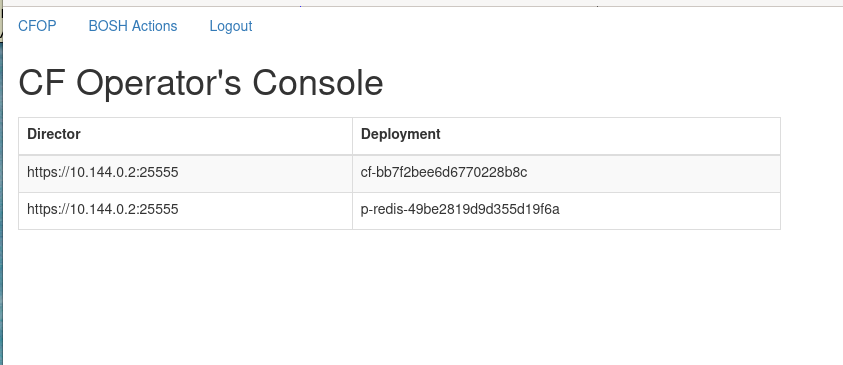
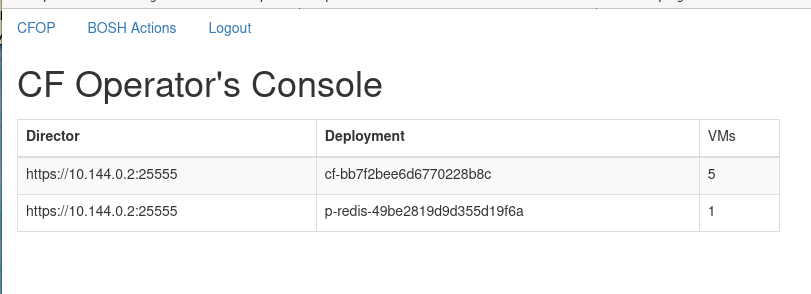
better opening screen

diff --git a/templates/index.html b/templates/index.html
@@ -5,11 +5,11 @@
 <h1>CF Operator's Console</h1>
 <table class="table table-striped table-bordered">
   <thead>
-    <tr><th>Director</th><th>Deployment</th></tr>
+    <tr><th>Director</th><th>Deployment</th><td>VMs</td></tr>
   </thead>
   <tbody>
     {% for d in director.deployments %}
-    <tr><td>{{ director.bosh_url }}</td><td>{{ d }}</td></tr>
+    <tr><td>{{ director.bosh_url }}</td><td>{{ d }}</td><td>{{ stats[d] }}</td></tr>
     {% endfor %}
   </tbody>
 </table>

diff --git a/opcon/app.py b/opcon/app.py
@@ -46,7 +46,8 @@ user_auth.ua_login_manager.login_view = 'login'
 @app.route("/")
 @user_auth.flask_login_required
 def index():
-    return render_template("index.html", director=director)
+    return render_template("index.html", director=director,
+                           stats=director.get_director_stats())
 
 
 @user_auth.ua_login_manager.user_loader
